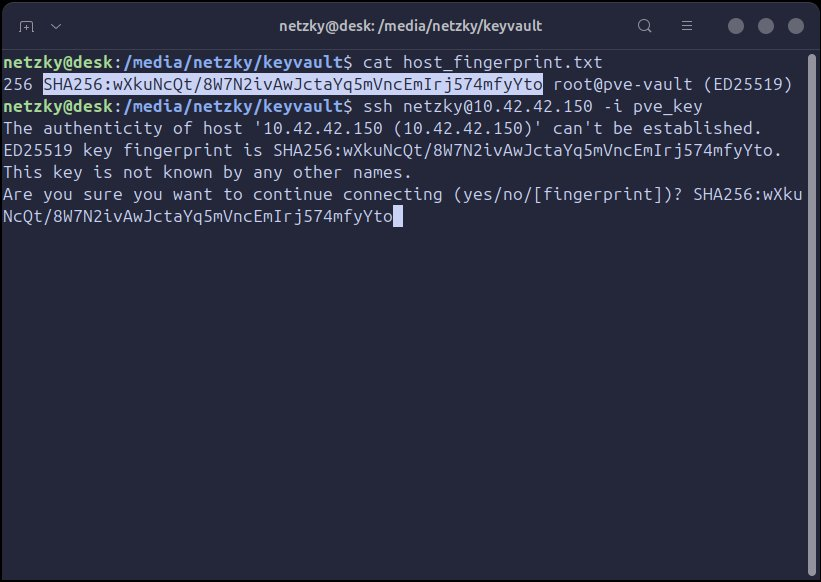
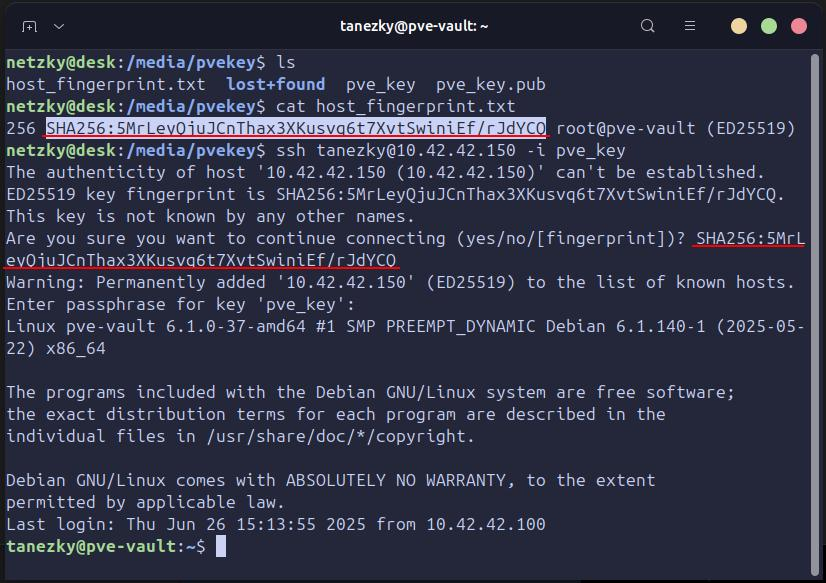
Proxmox Part 1: Add video and modify the partitioning section

diff --git a/_posts/nas/2024-08-24-proxmox-part-1-encrypted-installation.md b/_posts/nas/2024-08-24-proxmox-part-1-encrypted-installation.md
@@ -7,7 +7,7 @@ author: tanezky
 
 categories: [NAS]
 tags: [NAS,Terramaster,F4-424 Pro, Proxmox, SSH, LUKS]
-image: /assets/img/posts/pve-part1-installation/pve-part1-installation-post.jpg
+image: /assets/img/posts/pve-part1-installation/pve-part1-installation01.jpg
 ---
 
 > This post has been rewritten in Jun 2025
@@ -20,12 +20,13 @@ If not already familiar with the goals, get familiar with the article [Proxmox P
 This article will mostly follow the official Proxmox [tutorial](https://pve.proxmox.com/wiki/Install_Proxmox_VE_on_Debian_12_Bookworm) on installing Proxmox on a fresh Debian 12.11 installation. Main difference being Debian configured with encryption.
 
 ## Installing Debian
-![Debian Install](/assets/img/posts/pve-part1-installation/pve-part1-installation01.jpg){: width="1920" height="1080" .center}
+
+### Prerequisites
 1. [Download](https://www.debian.org/distrib/netinst) the Debian amd64 small installation image and flash it onto a USB thumb drive.
 2. Boot your system from the USB drive and begin the installation process.
 3. When the "Installation Menu" appears, **interrupt the process!**
 
-
+### Start Debian install with DHCP disabled
 ![Debian installer](/assets/img/posts/pve-part1-installation/pve-part1-installation02.jpg){: width="1920" height="1080" .center}
 
 By default, the Debian installer attempts to use IP autoconfiguration and DHCP to obtain an IP address. We need to force it to use manual configuration instead.
@@ -34,57 +35,54 @@ By default, the Debian installer attempts to use IP autoconfiguration and DHCP t
 - Add `netcfg/disable_autoconfig=true` to the linux boot command line.
 - Press `F10` to continue booting.
 
+### Network Configuration
 ![Debian installer network](/assets/img/posts/pve-part1-installation/pve-part1-installation03.jpg){: width="1920" height="1080" .center}
 
 Follow the installation process, choosing your preferred settings until you reach the Network Configuration step. Here, configure your network interface with a static IP address, netmask, gateway, and DNS server address. I use Cloudflare DNS `1.1.1.1` on my installations for improved performance.
 
-![Debian installer partitioning](/assets/img/posts/pve-part1-installation/pve-part1-installation04.jpg){: width="1920" height="1080" .center}
+### Partitioning
+
+{% include embed/youtube.html id='GoHzsR_SFzw' %}
+
 
 Proceed with the installation until you reach the **Partition Disks** section. Select the **Manual** partitioning method.
 
-Delete all existing partitions on the disk intended for Proxmox installation. If you encounter errors related to existing LVM configurations, navigate to **Configure the Logical Volume Manager** and delete the volumes and groups.
+I've created a video to show how the configuration is done
 
-The boot partition will not be encrypted, otherwise UEFI would not be able to execute the boot process. This is okay since we are not going to store any sensitive data on the partition.
-
+#### Manual instructions
 Create the following partitions:
 
 - EFI Partition: 512 MB
     - **Use as:** EFI System Partition.
-- Boot Partition: 2 GB
-    - **Use as:** ext4
-    - **Format the partition:** yes,format it
-    - **Mount point:** `/boot`
-    - **Mount options:** `noatime`
 - Encrypted Volume: 480 GB
     - **Use as:** physical volume for encryption
     - **Erase data:** no (this disk has never had anything sensitive on it)
-
-Use the screenshot above as an example before configuring the encryption
-
-
-![Debian installer encryption](/assets/img/posts/pve-part1-installation/pve-part1-installation05.jpg){: width="1920" height="1080" .center}
+- Boot Partition: use rest of the disk
+    - **Use as:** ext4
+    - **Format the partition:** yes,format it
+    - **Mount point:** `/boot`
+    - **NOTE:** In later parts of the Project we'll remove the boot partition.
 
 Enter the "Configure encrypted volumes" section.
 
 1. Check "Yes" to write changes to disk.
 2. Choose "Create encrypted volumes."
-3. Select the crypto device.
+3. Select the crypto partition.
 4. On next screen, select "Finish."
 5. Enter and confirm a strong encryption password.
-
-![Debian installer finalisation](/assets/img/posts/pve-part1-installation/pve-part1-installation06.jpg){: width="1920" height="1080" .center}
 
 Once the encrypted volume appears in the "Partition Disks" view, modify it:
 
 - **Use as:** ext4
 - **Mount point:** `/`
-- **Mount options:** `noatime`
 
 Finally:
 
 - "Finish partitioning and write changes to disk."
 - Choose "no" when asked about configuring swap.
 - Choose "yes" to write the changes to the disk.
+
+### Software selection
 
 ![Debian installer software](/assets/img/posts/pve-part1-installation/pve-part1-installation07.jpg){: width="1920" height="1080" .center}
 
@@ -94,6 +92,7 @@ Once installation is complete, reboot the system and remove installation media.
 
 ### Getting error "cryptsetup: Waiting for encrypted source device"
 ![cryptsetup: Waiting for encrypted source device error](/assets/img/posts/pve-part1-installation/pve-part1-cryptsetup_error.jpg)
+
 This error appears when reinstalling the system without formatting drives, the bootloader tries to run the configuration from previous installation. As a workaround, either enter to the `Advanced options for Debian GNU/Linux` from GRUB menu and choose other kernel or, alternatively reinstall the system and ensure EFI and boot partitions are formatted during installation.
 
 ## Configuring SSH for first connection
@@ -123,8 +122,7 @@ fdisk /dev/sdb
 mkfs.ext4 /dev/sdb3
 
 # 4. Create a mount point and mount the partition
-mkdir -p /mnt/usb
-mount /dev/sdb3 /mnt/usb
+mount -m /dev/sdb3 /mnt/usb
 
 # 5. Navigate to the mounted drive
 cd /mnt/usb
@@ -133,18 +131,17 @@ cd /mnt/usb
 dd if=/dev/urandom of=pvekey.img bs=1M count=50
 
 # 7. Create LUKS volume within the empty file
-cryptsetup --verify-passphrase luksFormat pvekey.img
+cryptsetup luksFormat pvekey.img
 
 # 8. Open the LUKS volume and confirm it is visible in the system
-cryptsetup open --type luks pvekey.img keyvault
+cryptsetup open pvekey.img keyvault
 ls /dev/mapper
 
 # 9. Create filesystem labeled as keyvault
 mkfs.ext4 -L keyvault /dev/mapper/keyvault
 
 # 10. Create mount point for the keyvault, mount it and navigate to the mounted folder
-mkdir -p /media/keyvault
-mount /dev/mapper/keyvault /media/keyvault
+mount -m /dev/mapper/keyvault /media/keyvault
 cd /media/keyvault
 
 # 11. Retrieve and save the host key fingerprint
@@ -154,13 +151,13 @@ ssh-keygen -l -f /etc/ssh/ssh_host_ed25519_key >> host_fingerprint.txt
 ssh-keygen -t ed25519 -f pve_key
 
 # 13. Create the SSH configuration folder for the non-admin user
-mkdir /home/netzky/.ssh
+mkdir /home/tanetzky/.ssh
 
 # 14. Add the public key to the user's authorized_keys file
-cat pve_key.pub >> /home/netzky/.ssh/authorized_keys
+cat pve_key.pub >> /home/tanetzky/.ssh/authorized_keys
 
 # 15. Give the user permissions to .ssh folder and files
-chown -R netzky:netzky /home/netzky/.ssh/
+chown -R tanetzky:tanetzky /home/tanetzky/.ssh/
 
 # 16. Finally, exit the folder and unmount drive.
 cd /
@@ -170,27 +167,28 @@ umount /mnt/usb
 ```
 
 ### First SSH Connection
-![First SSH Connection](/assets/img/posts/pve-part1-installation/pve-part1-installation08.jpg){: width="821" height="582" .center}
+![First SSH Connection](/assets/img/posts/pve-part1-installation/pve-part1-installation08.jpg){: width="826" height="583" .center}
 
 Connect the USB drive to your PC and move `pvekey.img` on your hard drive.
 
-On my Gnome Desktop I can mount the filevault via double clicking the file.
+On my Gnome Desktop I can mount the .img files via double clicking the file.
 After entering the password it is mounted.
 
-How-to in shell:
+#### Mount pvekey container in shell:
 
 ```shell
 # 1. Open the LUKS container
 sudo cryptsetup open --type luks pvekey.img keyvault
 
-# 2. If not existing, create location for the mount point
-sudo mkdir -p /media/keyvault
+# 2. Mount
+sudo mount -m /dev/mapper/keyvault /media/keyvault
 
-# 3. Mount
-sudo mount /dev/mapper/keyvault /media/keyvault
+# 3. Take ownership of keyvault files
+sudo chown -R netzky:netzky /media/keyvault/
+
 ```
 
-Finally, connect to the device with SSH
+#### Connect via SSH
 
 ```bash
 # 1. Navigate to the mounted location or open a new terminal in that folder
@@ -203,25 +201,23 @@ lost+found  vault-fingerprint.txt  pve_key  pve_key.pub
 
 # 3. Print contents of vault-fingerprint.txt
 cat vault-fingerprint.txt
-256 SHA256:wXkuNcQt/8W7N2ivAwJctaYq5mVncEmIrj574mfyYto root@pve-vault (ED25519)
+256 SHA256:5MrLeyQjuJCnThax3XKusvq6t7XvtSwiniEf/rJdYCQ root@pve-vault (ED25519)
 
 # 4. Create SSH connection using pve_key
-ssh -i pve_key netzky@10.42.42.150
+ssh tanezky@10.42.42.150 -i pve_key
 The authenticity of host '10.42.42.150 (10.42.42.150)' can't be established.'
-ED25519 key fingerprint is SHA256:wXkuNcQt/8W7N2ivAwJctaYq5mVncEmIrj574mfyYto.
+ED25519 key fingerprint is HA256:5MrLeyQjuJCnThax3XKusvq6t7XvtSwiniEf/rJdYCQ.
 This key is not known by any other names.
 
 # 5. Copy paste the SHA256 fingerprint from step 3
-Are you sure you want to continue connecting (yes/no/[fingerprint])? SHA256:wXkuNcQt/8W7N2ivAwJctaYq5mVncEmIrj574mfyYto
+Are you sure you want to continue connecting (yes/no/[fingerprint])? SHA256:5MrLeyQjuJCnThax3XKusvq6t7XvtSwiniEf/rJdYCQ
 Warning: Permanently added '10.42.42.150' (ED25519) to the list of known hosts.
 
 # 6. Enter password for the pve_key
 Enter passphrase for key 'pve_key': 
 
 # 7. Login complete
-Linux pve-vault 6.1.0-37-amd64 #1 SMP PREEMPT_DYNAMIC Debian 6.1.99-1 (2024-07-15) x86_64
-
-The programs included with the Debian GNU/Linux system are free software;
+Linux pve-vault 6.1.0-37-amd64 #1 SMP PREEMPT_DYNAMIC Debian 6.1.140-1 (2025-05-22) x86_64
 ...
 ```
 #### Make SSH easier
@@ -229,7 +225,7 @@ Typing the full ssh command with the key file every time can get tedious. To str
 
 ```shell
 # First, copy the private key in your .ssh folder
-cp pve_key /home/netzky/.ssh/
+cp pve_key pve_key.pub /home/netzky/.ssh/
 
 # Edit the local SSH config file on your PC
 ~/.ssh/config
@@ -237,7 +233,7 @@ cp pve_key /home/netzky/.ssh/
 # Add following content with your details
 Host    pve-vault
         HostName 10.42.42.150
-        User netzky
+        User tanezky
         IdentityFile ~/.ssh/pve_key
         LogLevel INFO
         Compression yes
@@ -324,7 +320,7 @@ After reboot, remove Debian kernel, unnecessary packages, update grub and remove
 # Remove kernel and unnecessary packages
 apt remove -y linux-image-amd64 'linux-image-6.1*' os-prober
 
-# Update grub and check its config
+# Update grub and its config
 update-grub
 
 # Remove pve-enterprise.list (don't remove unless you have subscription)
@@ -345,11 +341,13 @@ apt-mark showmanual > manually_installed_after_proxmox.txt
 diff -u file_before file_after
 ```
 
+##### Add network bridge
 Last thing on the list is to add network bridge, for time being I'm going to use default configuration.
 
 More information on Proxmox Network configuration on their [wiki](https://pve.proxmox.com/wiki/Network_Configuration#_default_configuration_using_a_bridge) page.
 
 ```shell
+#
 # Change /etc/network/interfaces from this:
 ....
 
@@ -368,7 +366,7 @@ iface enp2s0 inet static
 iface enp1s0 inet manual
 
 
-
+#
 # To look something like this:
 ...
 
@@ -377,8 +375,13 @@ source /etc/network/interfaces.d/*
 auto lo
 iface lo inet loopback
 
+# Main network interface on Terramaster F4-424 Pro (upper)
 iface enp2s0 inet manual
 
+# Second network interface on Terramaster F4-424 Pro (lower)
+iface enp1s0 inet manual
+
+# Bridge configuration
 auto vmbr0
 iface vmbr0 inet static
     address 10.42.42.150/24
@@ -386,15 +389,11 @@ iface vmbr0 inet static
     bridge-ports enp2s0
     bridge-stp off
     bridge-fd 0
-# dns-* options are implemented by the resolvconf package, if installed
-
-iface enp1s0 inet manual
 
 
-
-# Reboot the system after the bridge configuration is created
+#
+# After saving. reboot the system
 systemctl reboot
-
 ```
 
 ## Admin Web-interface
@@ -408,4 +407,4 @@ Use your `root` credentials and **Realm:** Linux PAM standard authentication
 
 #### Page updates
 - 29.12.2024 - Update Postfix Configuration, add reboot instruction to cleanup.
-- 23.06.2025 - Whole post was reviewed and updated
+- 25.06.2025 - Whole post was reviewed and updated
